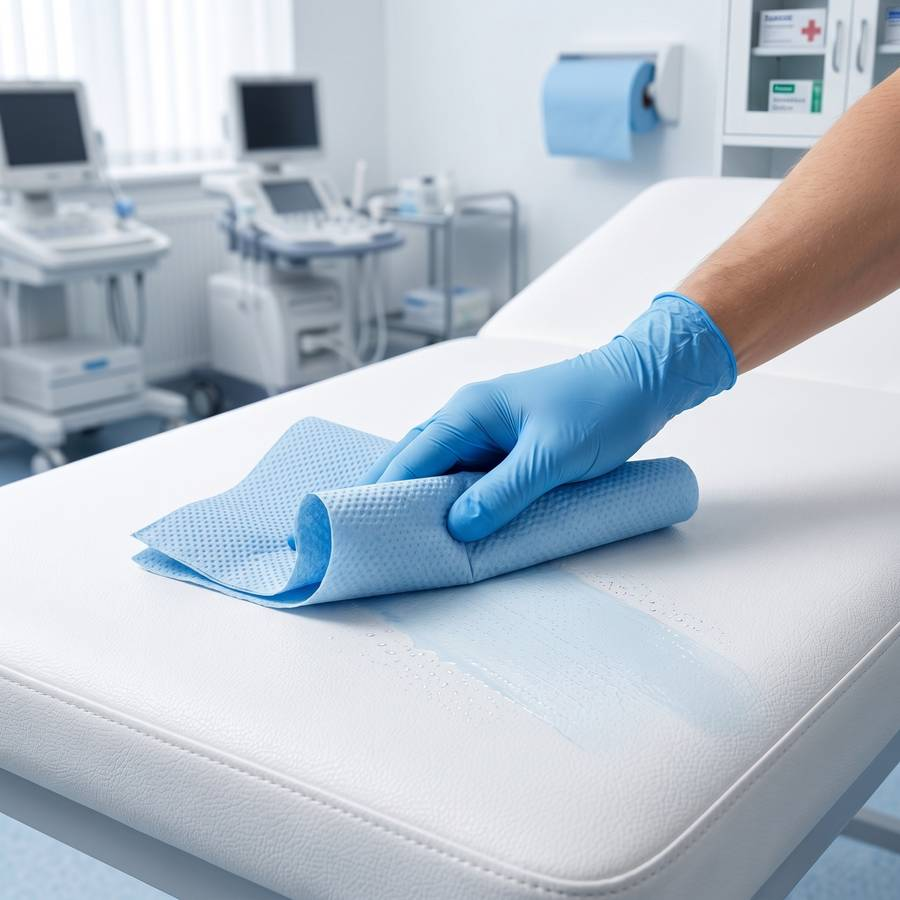
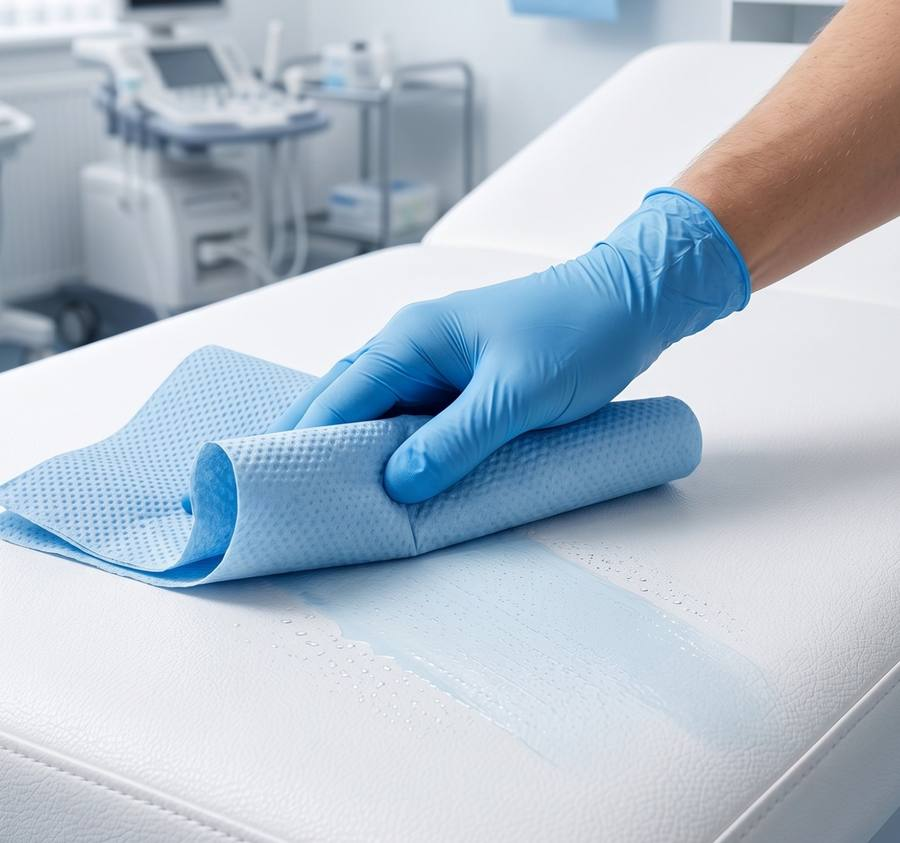
Fix cutout backgrounds, deliberate close-up crops, and copy accuracy
- Hero and brand-close product shots now use alpha-matted cutouts
  (white background removed) so they float cleanly on the colored
  backdrops instead of showing a visible white box edge.
- The three use-case photos are now deliberately cropped close-ups
  (framed on the hand/product/action) rather than left to generic
  CSS object-fit:cover cropping.
- Softened two unverified comparative claims a background review
  flagged (specific ply/pack-size numbers attributed to "typical
  alternatives" with no source) to unquantified language, and removed
  an unconfirmed dispenser-compatibility claim.
- Fixed a benefit icon that read as "view" rather than "versatile".

Claude-Session: https://claude.ai/code/session_01EzLcToox8SbHJyStQYBPqd

diff --git a/design/absorball-premium-aplus/Benefits.dc.html b/design/absorball-premium-aplus/Benefits.dc.html
@@ -38,7 +38,7 @@
         <div><div style="font-weight:600;color:var(--ink);font-size:15.5px;">Bulk pack of 6</div><div style="color:var(--ink-muted);font-size:13.5px;line-height:1.4;">Generous roll size, stocked up so you're never caught short.</div></div>
       </div>
       <div style="display:flex;gap:14px;align-items:flex-start;">
-        <svg width="26" height="26" viewBox="0 0 24 24" fill="none" stroke="var(--sky)" stroke-width="1.7" stroke-linecap="round" stroke-linejoin="round" style="flex:none;"><path d="M4 12c2.5-5 13.5-5 16 0-2.5 5-13.5 5-16 0Z"/><circle cx="12" cy="12" r="2.4"/></svg>
+        <svg width="26" height="26" viewBox="0 0 24 24" fill="none" stroke="var(--sky)" stroke-width="1.7" stroke-linecap="round" stroke-linejoin="round" style="flex:none;"><rect x="3.5" y="3.5" width="8" height="8" rx="1.6"/><rect x="12.5" y="3.5" width="8" height="8" rx="1.6"/><rect x="3.5" y="12.5" width="8" height="8" rx="1.6"/><rect x="12.5" y="12.5" width="8" height="8" rx="1.6"/></svg>
         <div><div style="font-weight:600;color:var(--ink);font-size:15.5px;">Versatile cleaning</div><div style="color:var(--ink-muted);font-size:13.5px;line-height:1.4;">One roll for kitchens, workshops, and clinical spaces alike.</div></div>
       </div>
     </div>

diff --git a/design/absorball-premium-aplus/Comparison.dc.html b/design/absorball-premium-aplus/Comparison.dc.html
@@ -31,8 +31,8 @@
   <table>
     <tr><th></th><th>Value Plus Blue Centrefeed</th><th>Typical Alternatives</th></tr>
     <tr><td class="label">Absorbency</td><td class="this">Highly absorbent, embossed</td><td>Standard, often flat</td></tr>
-    <tr><td class="label">Ply</td><td class="this">2-ply, reinforced</td><td>Usually 1-ply</td></tr>
-    <tr><td class="label">Pack size</td><td class="this">6 rolls &mdash; bulk value</td><td>Often 1&ndash;2 rolls</td></tr>
+    <tr><td class="label">Ply</td><td class="this">2-ply, reinforced</td><td>Often thinner, single-ply</td></tr>
+    <tr><td class="label">Pack size</td><td class="this">6 rolls &mdash; bulk value</td><td>Often smaller packs</td></tr>
     <tr><td class="label">Texture</td><td class="this">Embossed for grip &amp; strength</td><td>Smooth, tears easily</td></tr>
     <tr><td class="label">Use cases</td><td class="this">Kitchen, workshop &amp; clinical</td><td>Usually single-purpose</td></tr>
   </table>

diff --git a/design/absorball-premium-aplus/BrandClose.dc.html b/design/absorball-premium-aplus/BrandClose.dc.html
@@ -19,7 +19,7 @@
 </helmet>
 <div style="width:1464px;height:600px;position:relative;overflow:hidden;background:var(--sky-light);display:flex;align-items:center;">
   <div style="flex:1;height:100%;display:flex;align-items:center;justify-content:center;padding:40px;box-sizing:border-box;">
-    <img src="pack-triple.jpg" style="max-width:88%;max-height:88%;object-fit:contain;filter:drop-shadow(0 20px 30px rgba(22,35,79,.22));">
+    <img src="pack-triple-cutout.webp" style="max-width:88%;max-height:88%;object-fit:contain;filter:drop-shadow(0 20px 30px rgba(22,35,79,.22));">
   </div>
   <div style="flex:1.1;height:100%;background:var(--navy);display:flex;flex-direction:column;justify-content:center;padding:60px;box-sizing:border-box;gap:18px;">
     <div style="font-family:'IBM Plex Sans';font-size:13px;font-weight:600;letter-spacing:.08em;text-transform:uppercase;color:var(--sky);">Value Plus</div>

diff --git a/design/absorball-premium-aplus/Main.dc.html b/design/absorball-premium-aplus/Main.dc.html
@@ -30,7 +30,7 @@
   </div>
   <div style="width:42%;height:100%;display:flex;align-items:center;justify-content:center;background:var(--sky-light);position:relative;">
     <div style="position:absolute;width:340px;height:340px;border-radius:50%;background:radial-gradient(circle,#ffffff 0%, var(--sky-light) 70%);"></div>
-    <img src="pack-hero.jpg" style="position:relative;width:78%;object-fit:contain;filter:drop-shadow(0 24px 28px rgba(22,35,79,.28));">
+    <img src="pack-hero-cutout.webp" style="position:relative;width:78%;object-fit:contain;filter:drop-shadow(0 24px 28px rgba(22,35,79,.28));">
   </div>
 </div>
 </x-dc>

diff --git a/design/absorball-premium-aplus/WhatsInPack.dc.html b/design/absorball-premium-aplus/WhatsInPack.dc.html
@@ -31,7 +31,7 @@
     <div class="spec"><b>Ply</b><span>2-ply, embossed</span></div>
     <div class="spec"><b>Product code</b><span>DWCF01</span></div>
     <div class="spec"><b>Colour</b><span>Blue</span></div>
-    <div class="spec"><b>Dispensing</b><span>Fits standard wall &amp; stand dispensers</span></div>
+    <div class="spec"><b>Format</b><span>Centrefeed roll</span></div>
   </div>
 </div>
 </x-dc>
